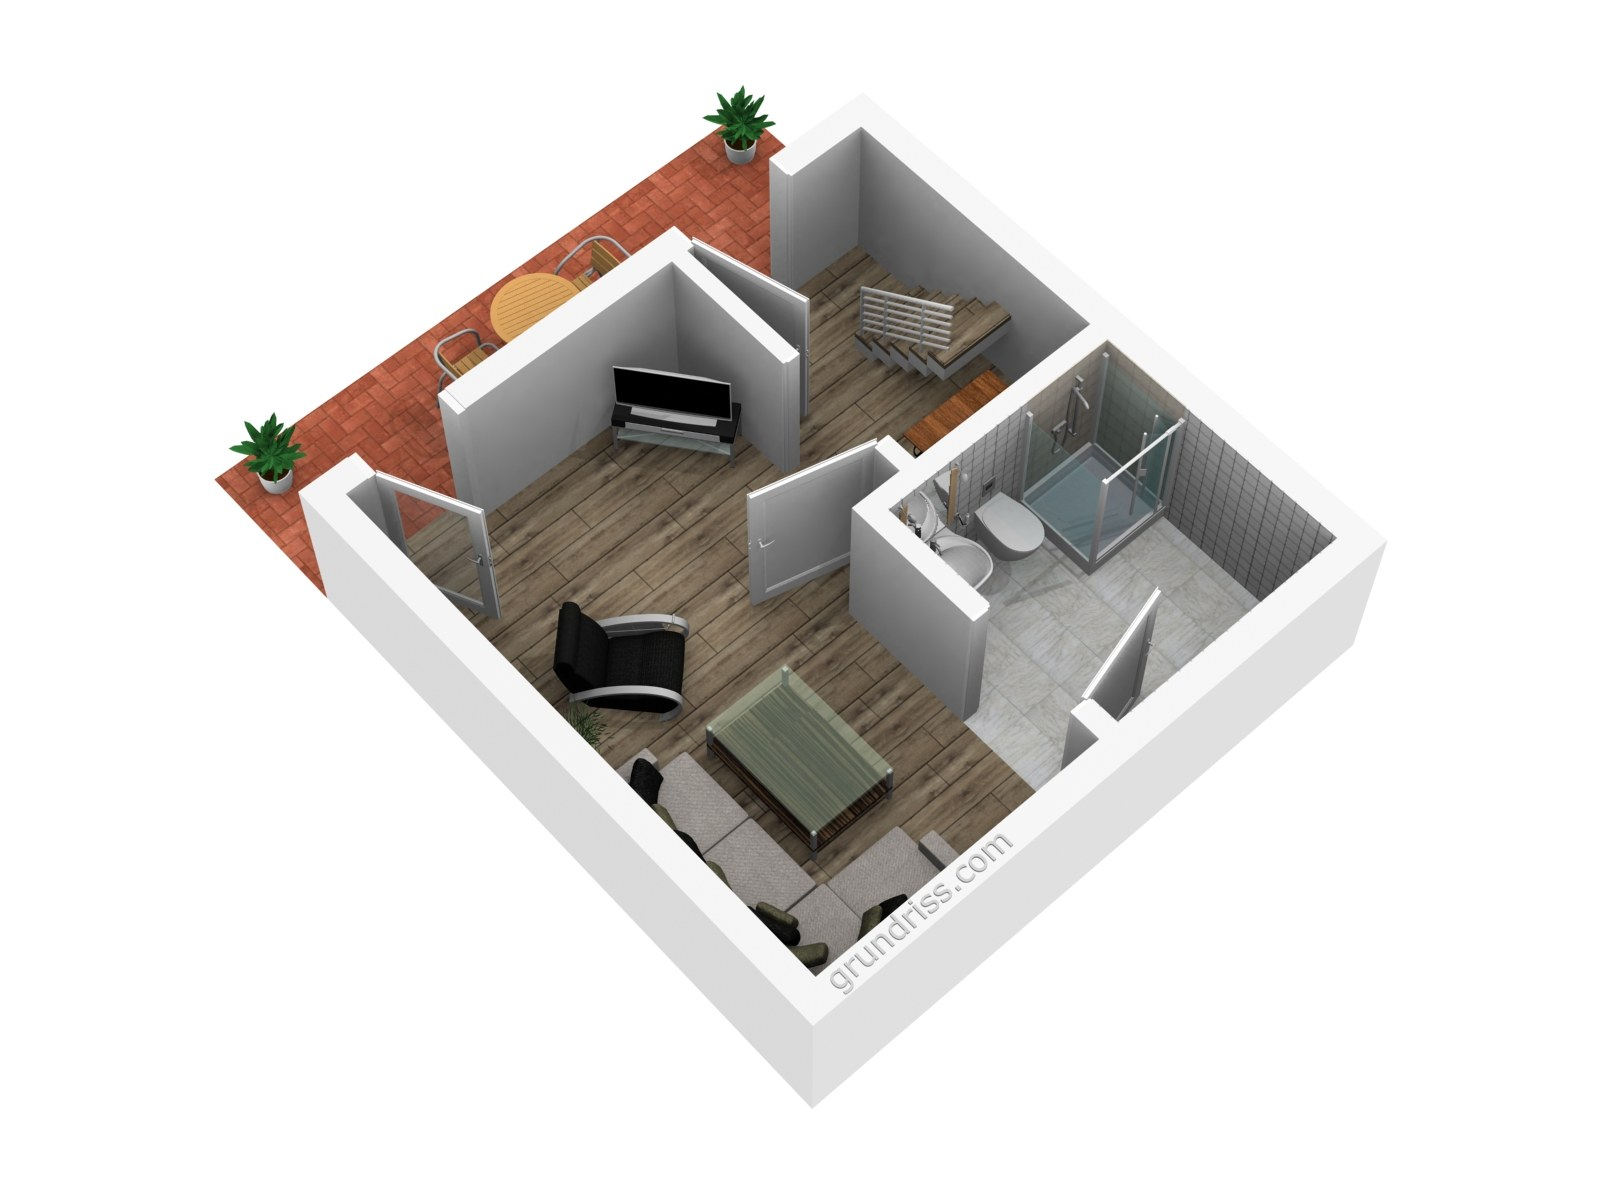
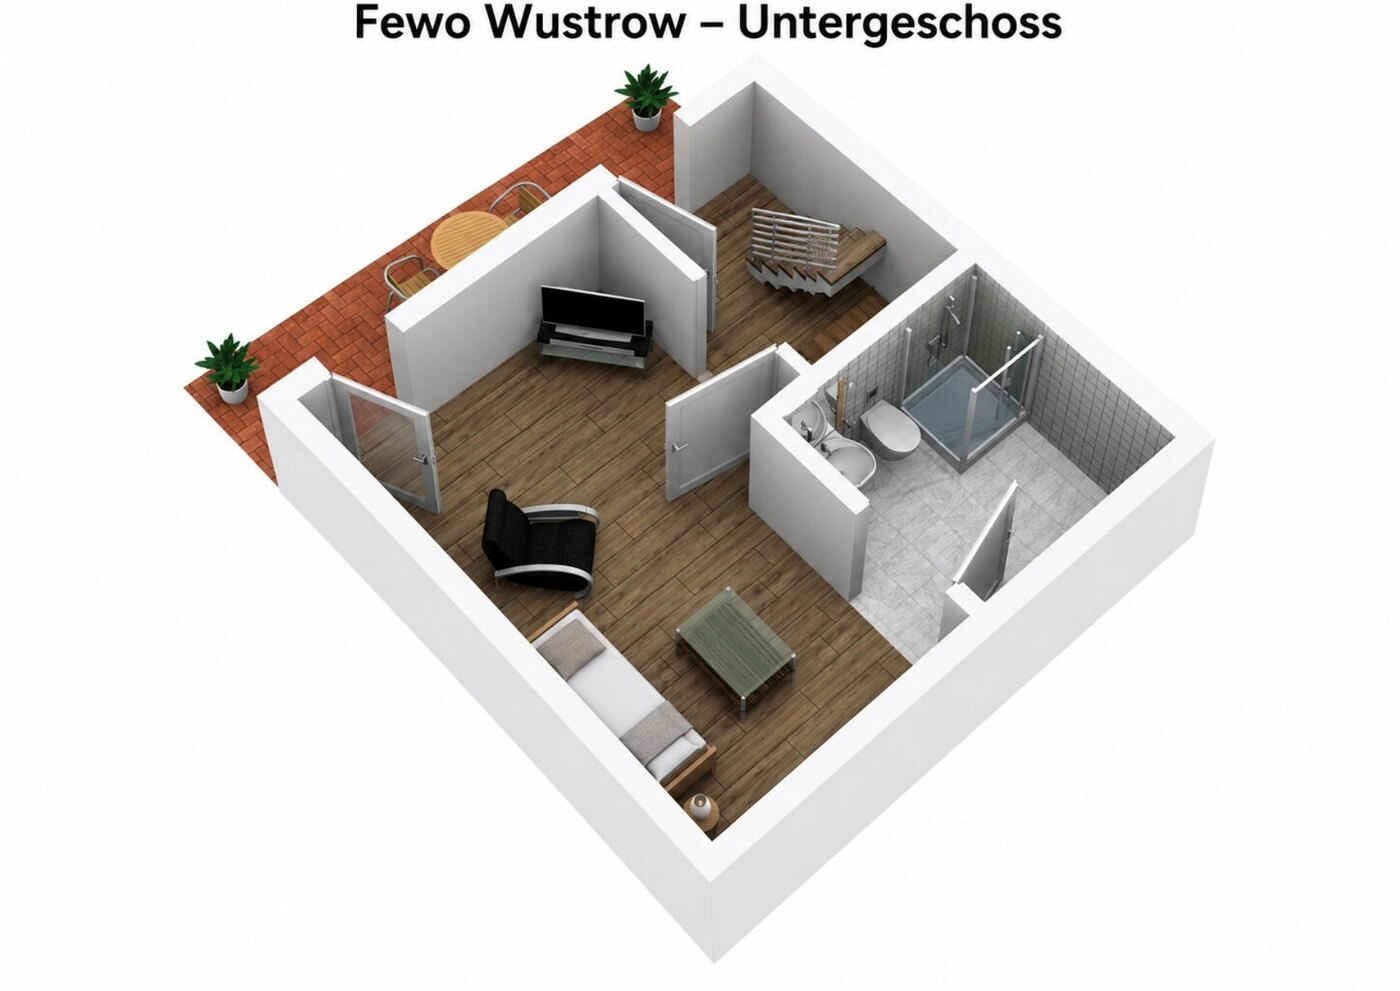
Add files via upload

diff --git a/pl/mieszkanie-wustrow.html b/pl/mieszkanie-wustrow.html
@@ -135,10 +135,10 @@
     <div class="desc">
       <h2>Mieszkanie</h2>
       <p>„Wustrow“ zajmuje dwie kondygnacje w ceglanym budynku dworu, spokojnie położone na zamkniętym terenie. Trzy osobne sypialnie dają miejsce dla maksymalnie siedmiu osób.</p>
-      <p>Na parterze znajduje się sypialnia z telewizorem i własną łazienką z prysznicem oraz taras. Na piętrze są w pełni wyposażona kuchnia z jadalnią – wieczorne miejsce spotkań – dwie kolejne sypialnie i łazienka z wanną.</p>
+      <p>Na dolnej kondygnacji znajduje się pokój dzienny z miejscem do spania, telewizorem i własną łazienką z prysznicem oraz taras. Na piętrze są w pełni wyposażona kuchnia z jadalnią – wieczorne miejsce spotkań – dwie kolejne sypialnie i łazienka z wanną.</p>
       <h2 style="margin-top:32px">Rozkład</h2>
       <ul class="rooms">
-        <li><b>Parter:</b> sypialnia z łóżkiem pojedynczym i telewizorem, łazienka z prysznicem, taras</li>
+        <li><b>Dolna kondygnacja:</b> pokój dzienny z łóżkiem pojedynczym, miejscem do siedzenia i telewizorem, łazienka z prysznicem, taras</li>
         <li><b>Piętro, pokój 1:</b> trzy łóżka pojedyncze (0,90 × 2,00 m)</li>
         <li><b>Piętro, pokój 2:</b> trzy łóżka pojedyncze (0,90 × 2,00 m)</li>
         <li><b>Piętro:</b> kuchnia z jadalnią, łazienka z wanną</li>
@@ -151,7 +151,7 @@
         <li><span class="ico">✓</span><span><b>Kuchnia:</b> piekarnik, płyta ceramiczna, zmywarka, ekspres do kawy, czajnik, toster, lodówka z zamrażalnikiem</span></li>
         <li><span class="ico">✓</span><span>Bezpłatne Wi-Fi</span></li>
         <li><span class="ico">✓</span><span>Bezpłatny parking na terenie</span></li>
-        <li><span class="ico">✓</span><span>Telewizor w sypialni na parterze</span></li>
+        <li><span class="ico">✓</span><span>Telewizor na dolnej kondygnacji</span></li>
         <li><span class="ico">✓</span><span>Miejsca do siedzenia na zewnątrz przed mieszkaniem</span></li>
         <li><span class="ico">✓</span><span>Mieszkanie dla niepalących</span></li>
         <li><span class="ico">✓</span><span>Samodzielne zameldowanie przez skrytkę na klucze</span></li>
@@ -165,12 +165,12 @@
     <h2>Rzut mieszkania</h2>
     <div class="grid">
       <figure style="margin:0">
-        <img src="../assets/wustrow-grundriss-eg.jpg" alt="3D-Rzut mieszkania Wustrow Erdgeschoss" style="width:100%;border:1px solid var(--line);border-radius:6px;background:#fff;display:block">
-        <figcaption style="text-align:center;color:var(--muted);font-size:.92rem;margin-top:10px;font-weight:600">Parter – sypialnia z telewizorem, łazienka z prysznicem, taras</figcaption>
+        <img src="../assets/wustrow-grundriss-eg.jpg" alt="Rzut 3D mieszkania Wustrow, dolna kondygnacja z pokojem dziennym, łazienką i tarasem" style="width:100%;border:1px solid var(--line);border-radius:6px;background:#fff;display:block">
+        <figcaption style="text-align:center;color:var(--muted);font-size:.92rem;margin-top:10px;font-weight:600">Dolna kondygnacja – pokój dzienny z miejscem do spania, łazienka z prysznicem, taras</figcaption>
       </figure>
       <figure style="margin:0">
-        <img src="../assets/wustrow-grundriss-og.jpg" alt="3D-Rzut mieszkania Wustrow Obergeschoss" style="width:100%;border:1px solid var(--line);border-radius:6px;background:#fff;display:block">
-        <figcaption style="text-align:center;color:var(--muted);font-size:.92rem;margin-top:10px;font-weight:600">Piętro – dwie sypialnie, kuchnia z jadalnią, łazienka z wanną</figcaption>
+        <img src="../assets/wustrow-grundriss-og.jpg" alt="Rzut 3D mieszkania Wustrow, piętro z dwiema sypialniami, kuchnią i łazienką" style="width:100%;border:1px solid var(--line);border-radius:6px;background:#fff;display:block">
+        <figcaption style="text-align:center;color:var(--muted);font-size:.92rem;margin-top:10px;font-weight:600">Piętro – dwie sypialnie, kuchnia z jadalnią, łazienka z wanną i osobne WC</figcaption>
       </figure>
     </div>
   </div>

diff --git a/wohnung-wustrow.html b/wohnung-wustrow.html
@@ -135,10 +135,10 @@
     <div class="desc">
       <h2>Die Wohnung</h2>
       <p>Die „Wustrow" liegt im Ziegelbau des Gutshofs, verteilt über zwei Ebenen, ruhig auf dem abgeschlossenen Gelände. Drei separate Schlafzimmer bieten Platz für bis zu sieben Personen.</p>
-      <p>Im Erdgeschoss liegt ein Schlafzimmer mit Fernseher und eigenem Bad mit Dusche, dazu die Terrasse. Im Obergeschoss befinden sich die voll ausgestattete Küche mit Essbereich – der gemeinsame Treffpunkt am Abend –, zwei weitere Schlafzimmer und das Bad mit Badewanne.</p>
+      <p>Im Untergeschoss liegt ein Wohn- und Schlafraum mit Fernseher und eigenem Bad mit Dusche, dazu die Terrasse. Im Obergeschoss befinden sich die voll ausgestattete Küche mit Essbereich – der gemeinsame Treffpunkt am Abend –, zwei weitere Schlafzimmer und das Bad mit Badewanne.</p>
       <h2 style="margin-top:32px">Aufteilung</h2>
       <ul class="rooms">
-        <li><b>Erdgeschoss:</b> Schlafzimmer mit Einzelbett und Fernseher, Bad mit Dusche, Terrasse</li>
+        <li><b>Untergeschoss:</b> Wohn- und Schlafraum mit Einzelbett, Sitzecke und Fernseher, Bad mit Dusche, Terrasse</li>
         <li><b>Obergeschoss, Zimmer 1:</b> drei Einzelbetten (0,90 × 2,00 m)</li>
         <li><b>Obergeschoss, Zimmer 2:</b> drei Einzelbetten (0,90 × 2,00 m)</li>
         <li><b>Obergeschoss:</b> Küche mit Essbereich, Bad mit Badewanne</li>
@@ -151,7 +151,7 @@
         <li><span class="ico">✓</span><span><b>Küche:</b> Backofen, Ceranfeld, Geschirrspüler, Kaffeemaschine, Wasserkocher, Toaster, Kühlschrank mit Gefrierfach</span></li>
         <li><span class="ico">✓</span><span>Kostenfreies WLAN</span></li>
         <li><span class="ico">✓</span><span>Kostenfreies Parken auf dem Hof</span></li>
-        <li><span class="ico">✓</span><span>Fernseher im Schlafzimmer im Erdgeschoss</span></li>
+        <li><span class="ico">✓</span><span>Fernseher im Untergeschoss</span></li>
         <li><span class="ico">✓</span><span>Sitzmöglichkeiten im Außenbereich vor der Wohnung</span></li>
         <li><span class="ico">✓</span><span>Nichtraucherwohnung</span></li>
         <li><span class="ico">✓</span><span>Selbst-Check-in per Schlüsselbox</span></li>
@@ -165,12 +165,12 @@
     <h2>Grundriss</h2>
     <div class="grid">
       <figure style="margin:0">
-        <img src="assets/wustrow-grundriss-eg.jpg" alt="3D-Grundriss Wustrow Erdgeschoss" style="width:100%;border:1px solid var(--line);border-radius:6px;background:#fff;display:block">
-        <figcaption style="text-align:center;color:var(--muted);font-size:.92rem;margin-top:10px;font-weight:600">Erdgeschoss – Schlafzimmer mit Fernseher, Bad mit Dusche, Terrasse</figcaption>
+        <img src="assets/wustrow-grundriss-eg.jpg" alt="3D-Grundriss der Wohnung Wustrow, Untergeschoss mit Wohn- und Schlafraum, Bad und Terrasse" style="width:100%;border:1px solid var(--line);border-radius:6px;background:#fff;display:block">
+        <figcaption style="text-align:center;color:var(--muted);font-size:.92rem;margin-top:10px;font-weight:600">Untergeschoss – Wohn- und Schlafraum, Bad mit Dusche, Terrasse</figcaption>
       </figure>
       <figure style="margin:0">
-        <img src="assets/wustrow-grundriss-og.jpg" alt="3D-Grundriss Wustrow Obergeschoss" style="width:100%;border:1px solid var(--line);border-radius:6px;background:#fff;display:block">
-        <figcaption style="text-align:center;color:var(--muted);font-size:.92rem;margin-top:10px;font-weight:600">Obergeschoss – zwei Schlafzimmer, Küche mit Essbereich, Bad mit Badewanne</figcaption>
+        <img src="assets/wustrow-grundriss-og.jpg" alt="3D-Grundriss der Wohnung Wustrow, Obergeschoss mit zwei Schlafzimmern, Küche und Bad" style="width:100%;border:1px solid var(--line);border-radius:6px;background:#fff;display:block">
+        <figcaption style="text-align:center;color:var(--muted);font-size:.92rem;margin-top:10px;font-weight:600">Obergeschoss – zwei Schlafzimmer, Küche mit Essbereich, Bad mit Badewanne und separates WC</figcaption>
       </figure>
     </div>
   </div>

diff --git a/en/apartment-wustrow.html b/en/apartment-wustrow.html
@@ -135,10 +135,10 @@
     <div class="desc">
       <h2>The apartment</h2>
       <p>The „Wustrow“ occupies two floors in the manor's brick building, quietly located on the enclosed grounds. Three separate bedrooms sleep up to seven people.</p>
-      <p>The ground floor holds a bedroom with a television and its own bathroom with shower, plus the terrace. Upstairs are the fully equipped kitchen with dining area – the meeting point in the evening – two further bedrooms and the bathroom with bathtub.</p>
+      <p>The lower floor holds a living and sleeping room with a television and its own bathroom with shower, plus the terrace. Upstairs are the fully equipped kitchen with dining area – the meeting point in the evening – two further bedrooms and the bathroom with bathtub.</p>
       <h2 style="margin-top:32px">Layout</h2>
       <ul class="rooms">
-        <li><b>Ground floor:</b> bedroom with single bed and television, bathroom with shower, terrace</li>
+        <li><b>Lower floor:</b> living and sleeping room with single bed, seating and television, bathroom with shower, terrace</li>
         <li><b>Upper floor, room 1:</b> three single beds (0.90 × 2.00 m)</li>
         <li><b>Upper floor, room 2:</b> three single beds (0.90 × 2.00 m)</li>
         <li><b>Upper floor:</b> kitchen with dining area, bathroom with bathtub</li>
@@ -151,7 +151,7 @@
         <li><span class="ico">✓</span><span><b>Kitchen:</b> oven, ceramic hob, dishwasher, coffee machine, kettle, toaster, fridge with freezer compartment</span></li>
         <li><span class="ico">✓</span><span>Free Wi-Fi</span></li>
         <li><span class="ico">✓</span><span>Free parking on the yard</span></li>
-        <li><span class="ico">✓</span><span>Television in the ground-floor bedroom</span></li>
+        <li><span class="ico">✓</span><span>Television on the lower floor</span></li>
         <li><span class="ico">✓</span><span>Seating outdoors in front of the apartment</span></li>
         <li><span class="ico">✓</span><span>Non-smoking apartment</span></li>
         <li><span class="ico">✓</span><span>Self check-in via key box</span></li>
@@ -165,12 +165,12 @@
     <h2>Floor plan</h2>
     <div class="grid">
       <figure style="margin:0">
-        <img src="../assets/wustrow-grundriss-eg.jpg" alt="3D-Floor plan Wustrow Erdgeschoss" style="width:100%;border:1px solid var(--line);border-radius:6px;background:#fff;display:block">
-        <figcaption style="text-align:center;color:var(--muted);font-size:.92rem;margin-top:10px;font-weight:600">Ground floor – bedroom with television, bathroom with shower, terrace</figcaption>
+        <img src="../assets/wustrow-grundriss-eg.jpg" alt="3D floor plan of the Wustrow apartment, lower floor with living and sleeping room, bathroom and terrace" style="width:100%;border:1px solid var(--line);border-radius:6px;background:#fff;display:block">
+        <figcaption style="text-align:center;color:var(--muted);font-size:.92rem;margin-top:10px;font-weight:600">Lower floor – living and sleeping room, bathroom with shower, terrace</figcaption>
       </figure>
       <figure style="margin:0">
-        <img src="../assets/wustrow-grundriss-og.jpg" alt="3D-Floor plan Wustrow Obergeschoss" style="width:100%;border:1px solid var(--line);border-radius:6px;background:#fff;display:block">
-        <figcaption style="text-align:center;color:var(--muted);font-size:.92rem;margin-top:10px;font-weight:600">Upper floor – two bedrooms, kitchen with dining area, bathroom with bathtub</figcaption>
+        <img src="../assets/wustrow-grundriss-og.jpg" alt="3D floor plan of the Wustrow apartment, upper floor with two bedrooms, kitchen and bathroom" style="width:100%;border:1px solid var(--line);border-radius:6px;background:#fff;display:block">
+        <figcaption style="text-align:center;color:var(--muted);font-size:.92rem;margin-top:10px;font-weight:600">Upper floor – two bedrooms, kitchen with dining area, bathroom with bathtub and separate WC</figcaption>
       </figure>
     </div>
   </div>
